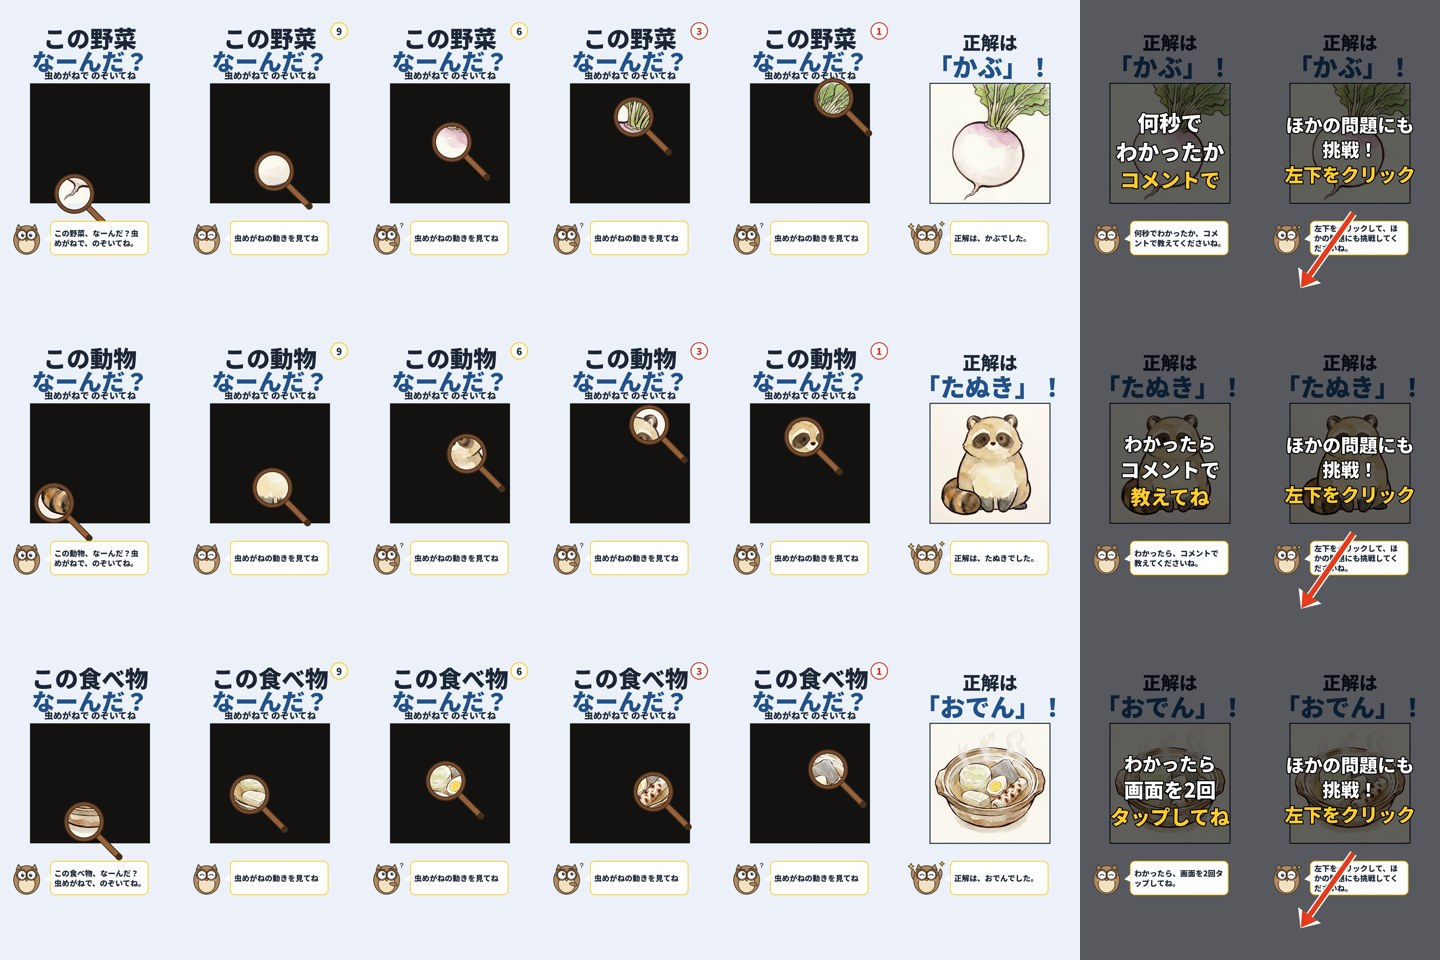
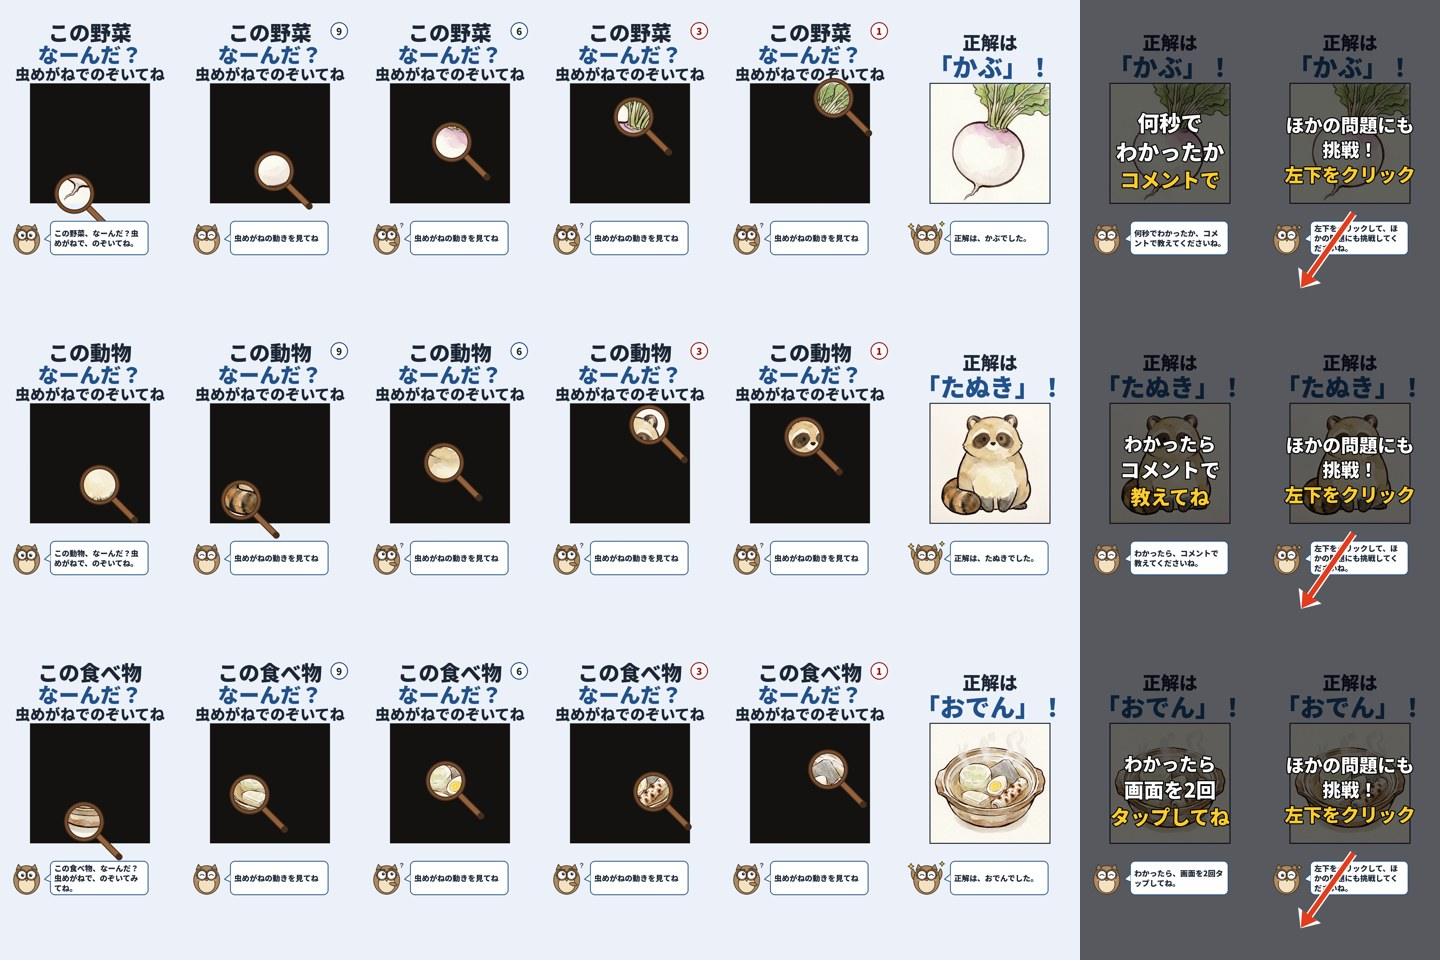
虫めがね試作：R-1〜R-3修正（再審査待ち）
Claude-Session: https://claude.ai/code/session_01RF3BnfrPSRk1U21VXW6Yry

diff --git a/scripts/mushimegane_shorts.py b/scripts/mushimegane_shorts.py
@@ -5,13 +5,14 @@
   絵（<id>.png）が無いときだけ画像APIを1枚使う（Vertex 標準）。あれば作り直さない。
 画面：季節の背景（scripts/season_theme.json の冬＝winter_A。2026-11-24 CEO厳守）に大きな見出し。中央の正方形の絵を黒でおおい、
 虫めがねがゆっくり動いて、レンズの円の中だけ絵が見える（直径は正方形の約3割・道すじは約12秒）。最後に黒を外して「正解は、○○でした」。
-音・声・こよみ先生・矢印は text_shorts.py の部品を使い、最後の流れは short_outro.py。
+音・声・こよみ先生・矢印は text_shorts.py の部品を使い、最後の流れは short_outro.py の build_outro（short_outro.py は変えていない。言い方の差し替えは、この中で SO.COMMENT・SO.CTA・SO.CTA_VEIL に実行時に入れる。T.CARD と同じやり方）。
 """
 import json, math, subprocess, sys, time
 from pathlib import Path
 
 sys.path.insert(0, str(Path(__file__).parent))
 import text_shorts as T
+import short_outro as SO
 from short_outro import build_outro
 from PIL import Image, ImageDraw
 
@@ -28,6 +29,8 @@ BLACK = (22, 20, 18)
 S = 720                                  # 正方形の一辺
 SX, SY = (W - S) // 2, 500               # 正方形の左上（下の y 1300 より下はこよみ先生と吹き出し）
 LENS_D = round(S * 0.30)                 # レンズの直径＝正方形の約3割
+LINE_Y = (190, 322, 440)                 # 0:00 の3行の中心の高さ。文字の大きさは 125・125・90px（上120pxと黒い正方形 y500〜 にかからない）
+SUB, SUB_SIZE = "虫めがねでのぞいてね", 90
 WALK = 12                                # 虫めがねが道すじを通る秒数＝考える時間
 RIM = (120, 78, 46)
 
@@ -76,9 +79,9 @@ def frame(item, pic, mode, t=0.0, remain=None):
         T.text_c(d, (W // 2, 250), "正解は", 110, INK)
         T.text_c(d, (W // 2, 395), f"「{item['answer']}」！", T.fit(d, f"「{item['answer']}」！", 150, 900), ACC)
     else:
-        T.text_c(d, (W // 2, 225), f"この{item['kind']}", T.fit(d, f"この{item['kind']}", 140, 900), INK)
-        T.text_c(d, (W // 2, 362), "なーんだ？", 140, ACC)
-        T.text_c(d, (W // 2, 450), "虫めがねで のぞいてね", 54, INK)
+        T.text_c(d, (W // 2, LINE_Y[0]), f"この{item['kind']}", T.fit(d, f"この{item['kind']}", 125, 900), INK)
+        T.text_c(d, (W // 2, LINE_Y[1]), "なーんだ？", 125, ACC)
+        T.text_c(d, (W // 2, LINE_Y[2]), SUB, SUB_SIZE, INK)
     if mode == "answer":
         im.paste(pic, (SX, SY))
         d.rectangle((SX - 3, SY - 3, SX + S + 2, SY + S + 2), outline=INK, width=6)
@@ -101,7 +104,7 @@ def build(item, out):
 
     def say(key, line, at=None):
         w, dur = T.voice(item["id"], key, line[1]); voices.append((w, (t if at is None else at) + 0.3, key, line)); return dur + 0.3
-    intro = (f"この{item['kind']}、なーんだ？虫めがねで、のぞいてね。", item["intro_voice"])
+    intro = (item.get("intro_sub", f"この{item['kind']}、なーんだ？虫めがねで、のぞいてね。"), item["intro_voice"])
     d = say("intro", intro)
     f0 = T.speaker(frame(item, pic, "cover", 0), "normal", intro[0])
     seq.append((f0, max(5.0, d + 0.6))); t += seq[-1][1]
@@ -119,10 +122,11 @@ def build(item, out):
     seq.append((T.speaker(frame(item, pic, "answer"), "yay", ans[0]), max(3.5, d + 1.5))); t += seq[-1][1]
     ev["end_at"] = t
     o = item["outro"]
-    comment = {"line": tuple(o["line"]), "veil": [tuple(v) for v in o["veil"]]}
+    SO.COMMENT["mm"] = {"line": tuple(o["line"]), "veil": [tuple(v) for v in o["veil"]]}
     cta = ("左下をクリックして、ほかの問題にも挑戦してくださいね。", "ひだりしたをクリックして、ほかのもんだいにも、ちょうせんしてくださいね。")
     cta_veil = [("ほかの問題にも", 110, (255, 255, 255)), ("挑戦！", 110, (255, 255, 255)), ("左下をクリック", 120, T.ACCENT)]
-    frames, length = build_outro(frame(item, pic, "answer"), lambda key, ln, off: say(key, ln, t + off), T.veil, T.speaker, T.arrow, comment=comment, cta=cta, cta_veil=cta_veil)
+    SO.CTA, SO.CTA_VEIL = cta, cta_veil
+    frames, length = build_outro(frame(item, pic, "answer"), lambda key, ln, off: say(key, ln, t + off), T.veil, T.speaker, T.arrow, comment="mm")
     seq += frames; total = t + length
     tmp = WORK / f"_{item['id']}"; tmp.mkdir(parents=True, exist_ok=True)
     lst = []

diff --git a/scripts/short_outro.py b/scripts/short_outro.py
@@ -29,10 +29,8 @@ CTA_VEIL = [("ほかの脳トレにも", 100, WHITE), ("挑戦！", 110, WHITE),
 COMMENT_MIN, CTA_MIN = 2.0, 5.0
 
 
-def build_outro(base, say, veil, speaker, arrow, comment="text", cta=None, cta_veil=None):
-    """comment は "text"／"find" のほか、{"line": (字幕, 声), "veil": [(文字, 大きさ), ...]} の辞書でもよい。cta・cta_veil で②の言い方も変えられる（2026-11-24 追加：虫めがねクイズは「ほかの問題にも」）。"""
-    c = COMMENT[comment] if isinstance(comment, str) else comment
-    cta = cta or CTA
+def build_outro(base, say, veil, speaker, arrow, comment="text"):
+    c = COMMENT[comment]
     frames, off = [], 0.0
     # ① コメントの呼びかけ（約2秒）
     d = say("comment", c["line"], off)
@@ -40,9 +38,9 @@ def build_outro(base, say, veil, speaker, arrow, comment="text", cta=None, cta_v
     lines = [(s, sz, YELLOW if i == 2 else WHITE) for i, (s, sz) in enumerate(c["veil"])]
     frames.append((speaker(veil(base, lines), "smile", c["line"][0]), n)); off += n
     # ② 左下をクリック＋矢印
-    d = say("cta", cta, off)
+    d = say("cta", CTA, off)
     end = max(CTA_MIN, d + 1.0)
-    b2 = speaker(veil(base, cta_veil or CTA_VEIL), "wink", cta[0])
+    b2 = speaker(veil(base, CTA_VEIL), "wink", CTA[0])
     for i in range(int(end * 10)):
         frames.append((arrow(b2.copy(), i / 10), 0.1))
     return frames, off + end

diff --git a/outputs/prototypes/mushimegane_001/README.md b/outputs/prototypes/mushimegane_001/README.md
@@ -1,17 +1,17 @@
 # 「この○○なーんだ？」虫めがねクイズ ショート試作 mushimegane_001（2026-11-24）
-縦1080×1920・30fps。アップロードなし。作り方：`python3 scripts/mushimegane_shorts.py <出力> [kabu|tanuki|oden]`。新規ファイルは scripts/mushimegane_shorts.py と scripts/mushimegane_defs.json（問題の定義）。声・音・こよみ先生・矢印は text_shorts.py の部品、最後の流れは short_outro.py を使った（short_outro.py には、言い方を変えられる引数だけ足した。動きは同じ）。
+縦1080×1920・30fps。アップロードなし。作り方：`python3 scripts/mushimegane_shorts.py <出力> [kabu|tanuki|oden]`。新規ファイルは scripts/mushimegane_shorts.py と scripts/mushimegane_defs.json（問題の定義）。声・音・こよみ先生・矢印は text_shorts.py の部品、最後の流れは short_outro.py を使った（short_outro.py は変えていない。言い方の差し替えは mushimegane_shorts.py の中で実行時に行う）。
 背景・文字・枠の色は season_theme.json の冬（winter_A）から読む（2026-11-24 CEO厳守）。
 
 | 本 | ファイル | 秒数 | 答え | 道すじ（約12秒） | 最後の流れ（コメント） |
 |---|---|---|---|---|---|
 | ① この野菜 | kabu.mp4 | 31.6 | かぶ | 根の先 → 白い玉の下 → 白い玉 → 紫がかった首 → くき → 葉 | 何秒でわかったか、コメントで教えてくださいね |
-| ② この動物 | tanuki.mp4 | 31.3 | たぬき | しっぽのしま → おなか → 耳 → 目のまわり | わかったら、コメントで教えてくださいね |
-| ③ この食べ物 | oden.mp4 | 30.9 | おでん | 器の底 → はんぺん → 大根 → たまご → ちくわ → こんにゃく | わかったら、画面を2回タップしてね |
+| ② この動物 | tanuki.mp4 | 31.3 | たぬき | おなか → しっぽのしま → 耳 → 目のまわり | わかったら、コメントで教えてくださいね |
+| ③ この食べ物 | oden.mp4 | 31.4 | おでん | 器の底 → はんぺん → 大根 → たまご → ちくわ → こんにゃく | わかったら、画面を2回タップしてね |
 
 3本とも、そのあとに「左下をクリックして、ほかの問題にも挑戦してくださいね」＋矢印。
 
 ## 流れ
-最初5秒：大きな見出し「この○○ なーんだ？」＋「虫めがねで のぞいてね」（0:00 がそのままサムネ）→ 12秒：黒でおおった正方形（720px）の上を虫めがね（レンズ直径216px＝約3割）が動き、右上にのこり秒数、5〜1秒前にカウントの音 → 黒を外して「正解は、○○でした」（約4秒）→ コメントの呼びかけ（約2.5秒）→ 左下をクリック＋矢印。
+最初5秒：大きな見出し「この○○」「なーんだ？」（125px）＋「虫めがねでのぞいてね」（90px。文字の上下は y138〜256／274〜385／401〜488、黒い正方形は y500〜）（0:00 がそのままサムネ）→ 12秒：黒でおおった正方形（720px）の上を虫めがね（レンズ直径216px＝約3割）が動き、右上にのこり秒数、5〜1秒前にカウントの音 → 黒を外して「正解は、○○でした」（約4秒）→ コメントの呼びかけ（約2.5秒）→ 左下をクリック＋矢印。
 音は間違い探しと同じ部品（0秒のピンポン・BGM・カウント音・答えのポン・チャイム）。
 
 ## 画像の枚数
@@ -23,6 +23,11 @@ Vertex 経由で3枚（各1枚・1K・1:1・水彩＋太い線・白っぽい背
 ## 自分で確かめたこと
 - 一覧画像 ichiran.jpg（3本×8コマ：0:00、虫めがね3秒・6秒・9秒・12秒、正解、最後の2段）を1回だけ見た。12秒の時点で、かぶは葉、たぬきは目と鼻、おでんはちくわ・こんにゃくが見え、ほぼ分かる。6秒では「白い玉」「しっぽ」「たまご」で、分かる人と分からない人が分かれる難しさ。
 - 声の読み：readings_check.md（漢字残りなし、「入る」不使用）。transcript_check.md（12声。要確認3は「なーんだ」の長音の聞こえ方の差）。
+## 差し戻し1回目の直し（R-1〜R-3）
+- R-1 おでんの最初の声：「むしめがねで」の「で」が抜けて聞こえたため、「のぞいてみてね」に変えて作り直し、「むしめがねで」と聞こえることを確認。
+- R-2 0:00 の3行を上のとおりに。
+- R-3 short_outro.py を b4580b9 の形に戻した（git diff なし）。
+
 ## 気になる点
 - 答えの画面と最後の幕で、答えの文字が暗い幕の下に透けて見える（共通の幕の動き）。
 - 左下の吹き出しの文字に矢印が重なる（text_shorts と同じ動き）。

diff --git a/outputs/prototypes/mushimegane_001/transcript_check.md b/outputs/prototypes/mushimegane_001/transcript_check.md
@@ -2,7 +2,7 @@
 
 書き出した声を Gemini に聞かせ、聞こえたとおりにひらがなで書き起こしたもの。「にはいる」が「には いる」と読まれた件（2026-11-22）の再発防止。
 
-結果：12声のうち3声（intro）が「要確認」。いずれも「なーんだ」が「なんだ」と聞こえた（長音の聞き取りの差）で、読みの崩れではない（oden は「で」が1つ抜けて聞こえた）。残りの9声は OK。
+結果：12声のうち3声（intro）が「要確認」。いずれも「なーんだ」が「なんだ」と聞こえた（長音の聞き取りの差）で、読みの崩れではない。おでんの intro は、「で」が抜けて聞こえたため声を作り直し（「のぞいてみてね」に変更）、「むしめがねで」と聞こえることを確認した（差し戻し1回目 R-1）。残りの9声は OK。
 
 | 声のファイル | 声に渡した文 | 聞こえた文（文字起こし） | 判定 |
 |---|---|---|---|
@@ -14,7 +14,7 @@
 | tanuki_ans | せいかいは、たぬきでした。 | せいかいは、たぬきでした。 | OK |
 | tanuki_comment | わかったら、コメントで、おしえてくださいね。 | わかったら、こめんとで、おしえてくださいね | OK |
 | tanuki_cta | ひだりしたをクリックして、ほかのもんだいにも、ちょうせんしてくださいね。 | ひだりしたをくりっくして、ほかのもんだいにもちょうせんしてくださいね。 | OK |
-| oden_intro | このたべもの、なーんだ？むしめがねで、のぞいてね。 | このたべもの、なんだ、むしめがね、のぞいてね | 要確認：渡した文と違う |
+| oden_intro | このたべもの、なーんだ？むしめがねで、のぞいてみてね。 | このたべもの、なんだ。むしめがねで、のぞいてみてね。 | 要確認：渡した文と違う |
 | oden_ans | せいかいは、おでんでした。 | せいかいは、おでんでした | OK |
 | oden_comment | わかったら、がめんを、にかいタップしてね。 | わかったら、がめんをにかいたっぷしてね | OK |
 | oden_cta | ひだりしたをクリックして、ほかのもんだいにも、ちょうせんしてくださいね。 | ひだりしたをくりっくして、ほかのもんだいにもちょうせんしてくださいね。 | OK |

diff --git a/outputs/prototypes/mushimegane_001/readings_check.md b/outputs/prototypes/mushimegane_001/readings_check.md
@@ -21,7 +21,7 @@
 ## oden
 | セリフ | 字幕 | 声に渡した文 | 確認 |
 |---|---|---|---|
-| intro（0.3秒） | この食べ物、なーんだ？虫めがねで、のぞいてね。 | このたべもの、なーんだ？むしめがねで、のぞいてね。 | OK |
-| ans（17.7秒） | 正解は、おでんでした。 | せいかいは、おでんでした。 | OK |
-| comment（21.3秒） | わかったら、画面を2回タップしてね。 | わかったら、がめんを、にかいタップしてね。 | OK |
-| cta（25.0秒） | 左下をクリックして、ほかの問題にも挑戦してくださいね。 | ひだりしたをクリックして、ほかのもんだいにも、ちょうせんしてくださいね。 | OK |
+| intro（0.3秒） | この食べ物、なーんだ？虫めがねで、のぞいてみてね。 | このたべもの、なーんだ？むしめがねで、のぞいてみてね。 | OK |
+| ans（18.2秒） | 正解は、おでんでした。 | せいかいは、おでんでした。 | OK |
+| comment（21.8秒） | わかったら、画面を2回タップしてね。 | わかったら、がめんを、にかいタップしてね。 | OK |
+| cta（25.5秒） | 左下をクリックして、ほかの問題にも挑戦してくださいね。 | ひだりしたをクリックして、ほかのもんだいにも、ちょうせんしてくださいね。 | OK |
